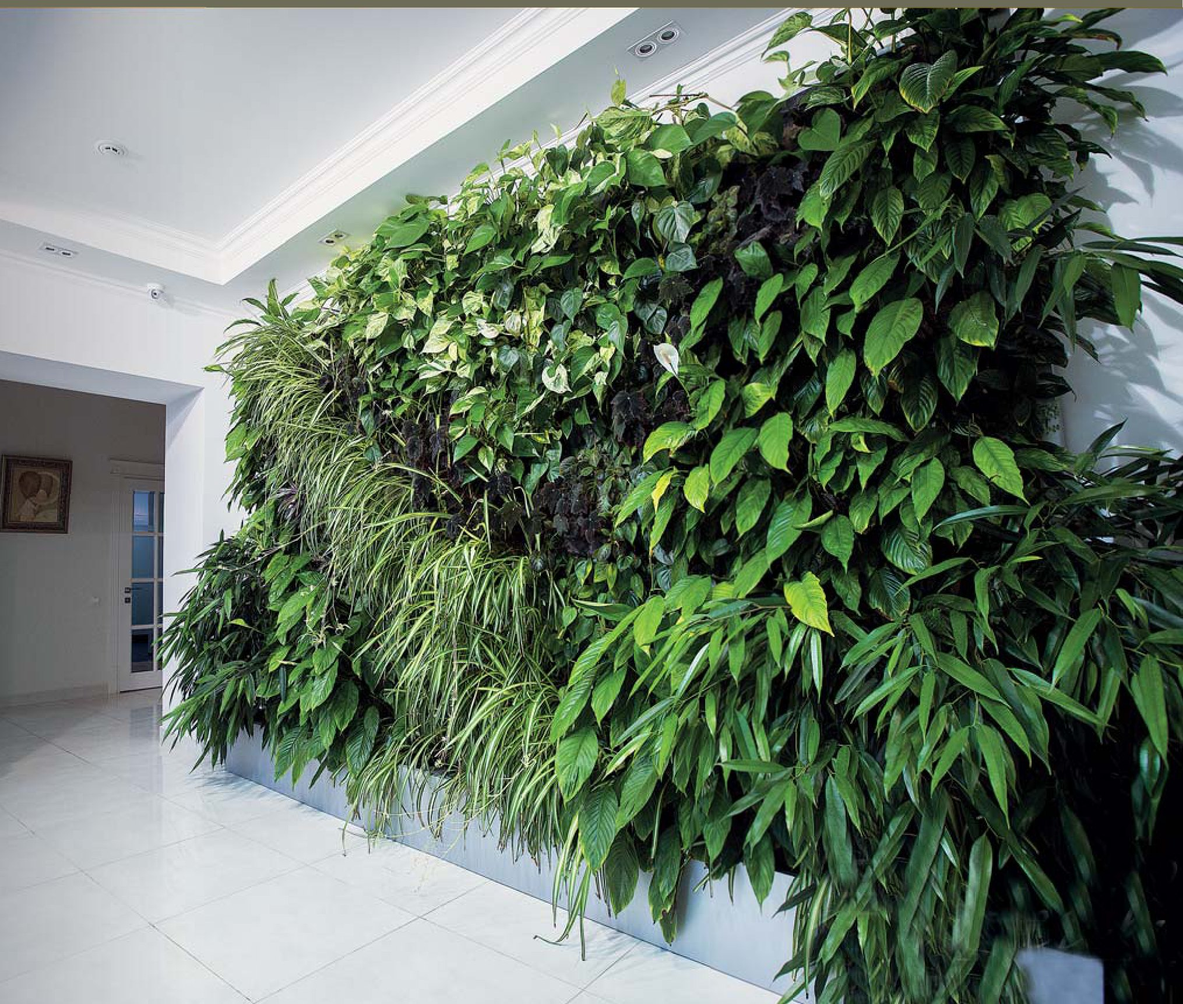
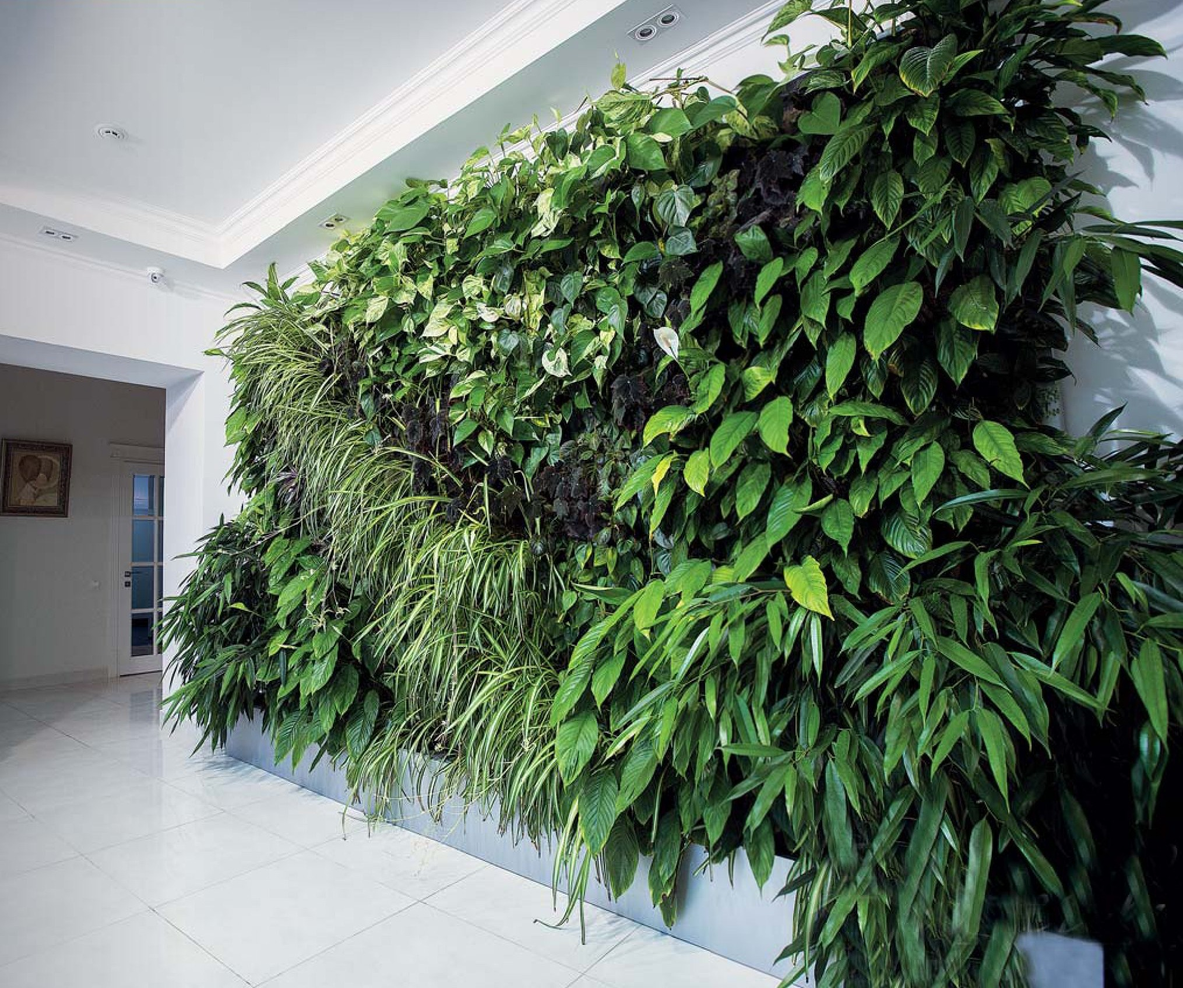
Верифікація ДентАрт 1(82)/2016: виправлено 3 статті
Роуз «Тріада бруксизму» — Фото 9 і Фото 15 замінені на коректні
знімки верхньої щелепи (розміри файлів збігались, вміст був іншим).
Зельман/Лазарєва — фото стільця-сідла Bambach перезібрано з сирих
image-тайлів PDF замість рендера сторінки, прибрано запечені уривки
тексту, що обтікав силует стільця. Інтер'єр B'uteeth — обрізано
залишки фонового шва (~20px) по краях усіх 4 фото.

diff --git a/statti-interier-buteeth-odesa.html b/statti-interier-buteeth-odesa.html
@@ -168,10 +168,10 @@ fbq('track', 'PageView');
       <div class="art-body">
 <p class="lead">Клініка стоматології «B'uteeth», Одеса, Україна.</p>
 <div class="galc">
-  <figure><img class="aimg" src="images/buteeth163-001.jpg" width="1430" height="824" loading="lazy" alt="Дитяча зона очікування клініки B'uteeth"></figure>
-  <figure><img class="aimg" src="images/buteeth163-002.jpg" width="1050" height="962" loading="lazy" alt="Сходовий проліт і зона очікування з мольбертом"></figure>
-  <figure><img class="aimg" src="images/buteeth163-003.jpg" width="1430" height="962" loading="lazy" alt="Скляна склепінчаста стеля над зоною відпочинку"></figure>
-  <figure><img class="aimg" src="images/buteeth163-004.jpg" width="2030" height="1723" loading="lazy" alt="Фітостіна у коридорі клініки"></figure>
+  <figure><img class="aimg" src="images/buteeth163-001.jpg" width="1412" height="804" loading="lazy" alt="Дитяча зона очікування клініки B'uteeth"></figure>
+  <figure><img class="aimg" src="images/buteeth163-002.jpg" width="1050" height="942" loading="lazy" alt="Сходовий проліт і зона очікування з мольбертом"></figure>
+  <figure><img class="aimg" src="images/buteeth163-003.jpg" width="1430" height="942" loading="lazy" alt="Скляна склепінчаста стеля над зоною відпочинку"></figure>
+  <figure><img class="aimg" src="images/buteeth163-004.jpg" width="2030" height="1695" loading="lazy" alt="Фітостіна у коридорі клініки"></figure>
 </div>
       </div>
     </article>

diff --git a/statti-zelman-lazarieva-siadte-pravylno-bil-u-spyni.html b/statti-zelman-lazarieva-siadte-pravylno-bil-u-spyni.html
@@ -223,7 +223,7 @@ fbq('track', 'PageView');
 
 <h3>Ідея стільця-сідла Bambach Saddle</h3>
 <div class="galc">
-  <figure><img class="aimg" src="images/zelman-008.jpg" width="727" height="1334" loading="lazy" alt="Стілець-сідло Bambach Saddle синього кольору"></figure>
+  <figure><img class="aimg" src="images/zelman-008.jpg" width="696" height="1275" loading="lazy" alt="Стілець-сідло Bambach Saddle синього кольору"></figure>
   <figure>
     <p>Ідея стільця-сідла Bambach полягає в сидінні верхи, як при верховій їзді. У цій позі у сидячого з'являється правильна постава, оскільки зберігаються природні вигини хребта.</p>
     <p>У такому положенні на стільці-сідлі Bambach Saddle вага тіла утримується таким чином, що анатомічно вивірена опорна поверхня сідла забезпечить ідеальні умови розподілу сили тяжіння в місцях контакту тіла з опорною поверхнею. Той, хто сидить, балансує таким чином, що динаміка роботи тіла буде такою ж самою, як у положенні стоячи, з тією лише різницею, що ноги розвантажені і залучені до мікрорухів, котрі підтримують природну рівновагу як противаги, а не як опори.</p>
